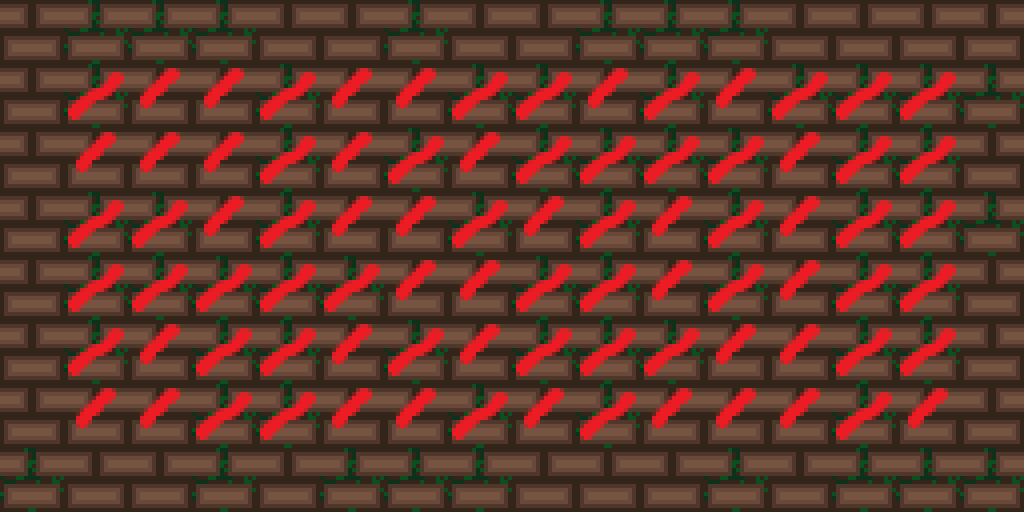
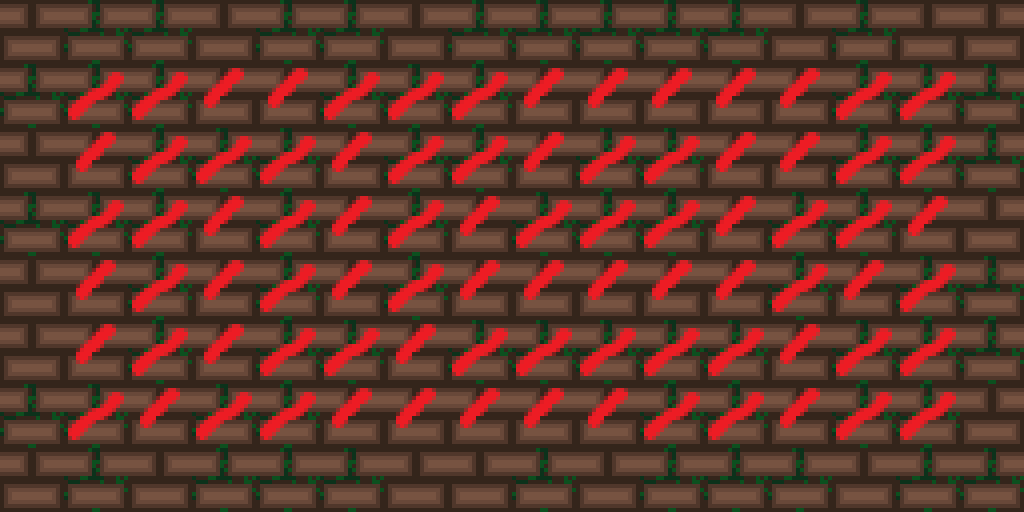
fix

diff --git a/__main__.py b/__main__.py
@@ -1,9 +1,9 @@
 from PIL import Image
 from src import *
 
-REZ = 64  # dava upscalebt im 8x8 spritebs pygameit
 WIDTH = 16
 HEIGHT = 8
+
 
 def main():
     pygame.init()
@@ -24,11 +24,13 @@ def main():
     count = 0
     while True:
         if count % 10:
-            game.player.index = (game.player.index + 1) % len(game.player.animation)
+            game.player.index = (game.player.index +
+                                 1) % len(game.player.animation)
         game.loop(win)
         pygame.display.update()
         clock.tick(60)
-        count+=1
+        count += 1
+
 
 if __name__ == '__main__':
     main()

diff --git a/src/utils.py b/src/utils.py
@@ -1,7 +1,12 @@
+import pygame
+from PIL import Image
+import random as rand
+
+
 def get_animation_frames(tilemap, res):
     frames = []
     for x in range(0, tilemap.width, res):
-        img = tilemap.crop((x, y, x + res, y + res))
+        img = tilemap.crop((x, 0, x + res, res))
         frames.append(pygame.image.fromstring(
             img.tobytes(), img.size, img.mode))
     return frames

diff --git a/src/game.py b/src/game.py
@@ -16,7 +16,7 @@ class Game:
 
         tilemap = generate_tilemap(16)
         lev = build_level(tilemap, base, 1, 16)
-        lev = lev.resize((lev.width*4, lev.height*4), Image.Resampling.NEAREST)
+        lev = lev.resize((lev.width*4, lev.height*4), 0)
         lev.save('background.png')
         self.level = lev
         self.level_surface = pygame.image.load("background.png").convert(win)

diff --git a/src/player.py b/src/player.py
@@ -10,7 +10,7 @@ class Player(Entity):
     def __init__(self, pos):
         super().__init__(pos)
         self.animation = get_animation_frames(
-            Image.open('assets/animations/player.png'), res)
+            Image.open('assets/animations/player.png'), 16)
         self.index = 0
 
     def update(self):
